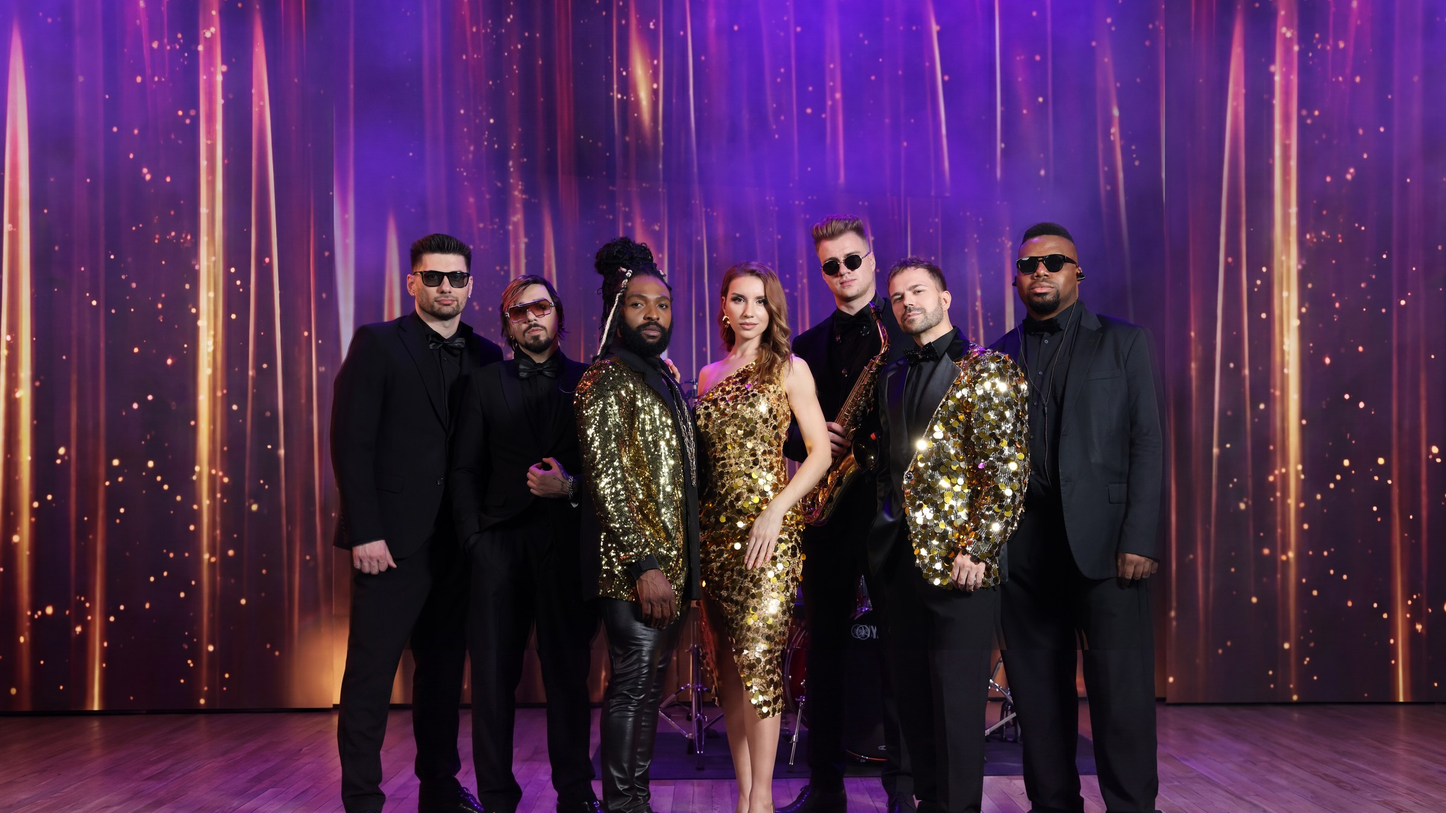
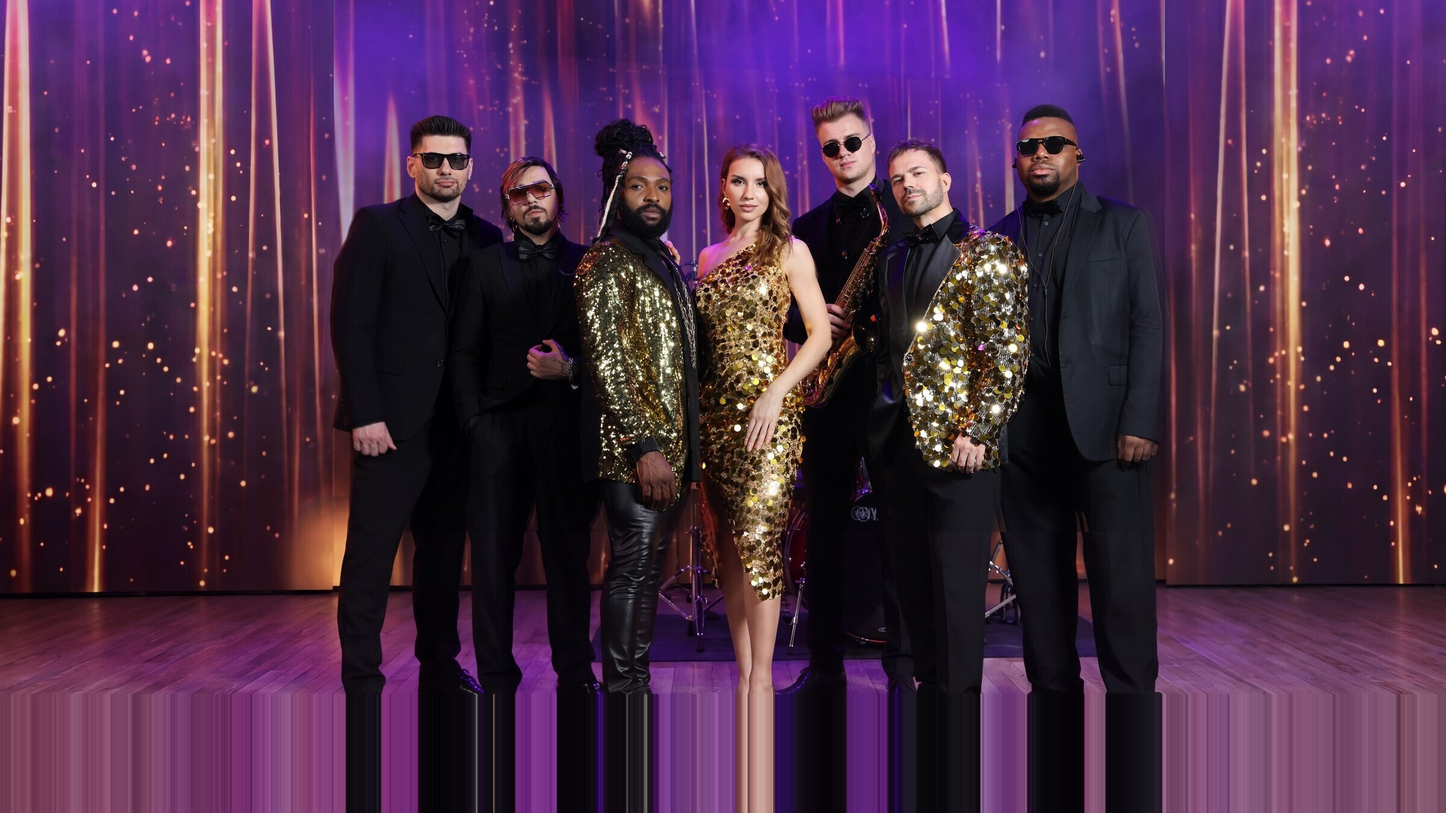
hero: pre-align source photos so heads land at y≈266 in all 4 slides
Previous approach used aggressive per-slide CSS transforms to compensate for
source images where heads were at wildly different Y positions (bw 355, gold
462, white 163 vs red 266). This worked on one viewport but broke on others
because cover-math depends on container aspect.

Proper fix: re-crop source JPEGs so heads are at the same pixel y in all
four. Now CSS can be uniform and viewport-independent.

- hero-bw.jpg:    shifted UP 89px  (crop top, extend floor row at bottom)
- hero-gold.jpg:  shifted UP 196px (same technique)
- hero-white.jpg: shifted DOWN 60px (extend starfield at top, keep feet)

CSS reverted to single .hero__bg rule + one heroZoom keyframe for all.

diff --git a/src/styles.css b/src/styles.css
@@ -338,33 +338,23 @@ h1, h2, h3, p { margin: 0; }
 	width: 100%;
 	height: 100%;
 	object-fit: cover;
-	object-position: center 55%;
-	transform-origin: center 62%;
+	object-position: center 50%;
 	opacity: 0;
 	transition: opacity 1.1s cubic-bezier(.4, 0, .2, 1);
 	will-change: opacity, transform;
 }
 
-/* Per-photo normalization: align all head positions to ~19% of hero height.
-   Source images have heads at different Y (red 266, bw 355, gold 462, white 163 of 1350)
-   — we compensate with per-slide scale + transform-origin so all heads land near the
-   same viewport Y after cover-cropping and scaling. */
-.hero__bg--red   { object-position: center 52%; transform: scale(1.00); transform-origin: center 62%; }
-.hero__bg--bw    { object-position: center 55%; transform: scale(1.18); transform-origin: center 62%; }
-.hero__bg--gold  { object-position: center 60%; transform: scale(1.50); transform-origin: center 62%; }
-.hero__bg--white { object-position: center 0%;  transform: scale(1.28); transform-origin: center -15%; }
+/* Source images are pre-aligned (heads at y≈266/1350 ≈ 20% from top) so all
+   slides use identical framing. No per-slide transforms needed. */
+.hero__bg.is-active {
+	opacity: 1;
+	animation: heroZoom 24s cubic-bezier(.42, 0, .58, 1) infinite alternate;
+}
 
-.hero__bg.is-active { opacity: 1; animation: none; }
-.hero__bg--red.is-active   { animation: heroZoomRed   24s cubic-bezier(.42, 0, .58, 1) infinite alternate; }
-.hero__bg--bw.is-active    { animation: heroZoomBw    24s cubic-bezier(.42, 0, .58, 1) infinite alternate; }
-.hero__bg--gold.is-active  { animation: heroZoomGold  24s cubic-bezier(.42, 0, .58, 1) infinite alternate; }
-.hero__bg--white.is-active { animation: heroZoomWhite 24s cubic-bezier(.42, 0, .58, 1) infinite alternate; }
-
-/* Keyframes start at the same scale as the static rule — zero-jump handoff */
-@keyframes heroZoomRed   { from { transform: scale(1.00); } to { transform: scale(1.06); } }
-@keyframes heroZoomBw    { from { transform: scale(1.18); } to { transform: scale(1.24); } }
-@keyframes heroZoomGold  { from { transform: scale(1.50); } to { transform: scale(1.56); } }
-@keyframes heroZoomWhite { from { transform: scale(1.28); } to { transform: scale(1.34); } }
+@keyframes heroZoom {
+	from { transform: scale(1.00); }
+	to   { transform: scale(1.06); }
+}
 
 .hero__scrim {
 	position: absolute; inset: 0; z-index: 1;
